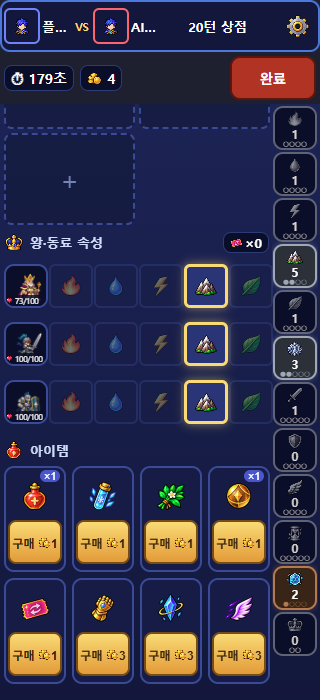
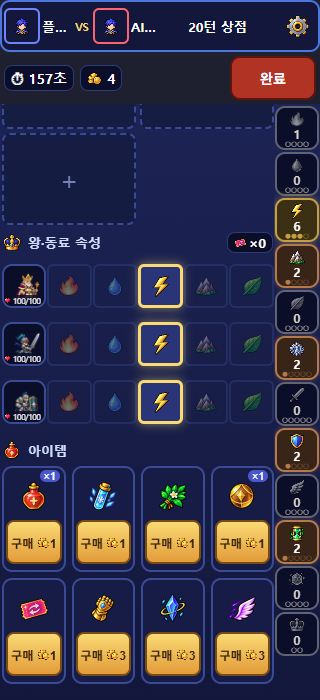
fix: restore unit status and shop touch targets (#316)

diff --git a/demo/test/regression/smoke_issue316.js b/demo/test/regression/smoke_issue316.js
@@ -94,6 +94,11 @@ function battle(seed){ const T=ecoPlay(seed);
   ok(rows.length===3&&rows.every(r=>/<small class="hp">[\s\S]*?<\/small>/.test(r.slice(0,r.indexOf("<button"))))&&rows.some(r=>r.includes("73/100"))&&rows.every(r=>/class="faceBtn"[^>]*onclick="unitHelpPiece\(/.test(r)),"⑥a 상점 속성 줄 = 왕 · 동료 그림 아래 실제 HP(공통 hpHtml) + 읽기 전용 말 정보 진입(속성 버튼 밖)");
   U.unitHelpPiece(king.id,null); let h=help();
   ok(/aria-label="HP 73\/100"/.test(h)&&/현재 방어막 12/.test(h),"⑥b 정보 창: 왕 HP 칸(빨간 하트) + 현재 방어막(실제 값)");
+  /* Saturn REVISE R1: 정보 창 줄(<ul class="uhRows"> 의 <li>)을 글자만 남겨 하나씩 본다 — 방어막 줄 뒤 사망 · 이동 불가 줄이 따로 살아 있어야 한다 */
+  const li=s=>(((s.match(/<ul class="uhRows">([\s\S]*?)<\/ul>/)||[])[1]||"").match(/<li>[\s\S]*?<\/li>/g)||[]).map(r=>r.replace(/<[^>]+>/g,"").trim());
+  ok(!li(h).some(r=>/사망|이동 불가/.test(r)),"⑥b2 살아 있고 이동 가능(immobile 0)하면 사망 · 이동 불가 줄 없음");
+  king.immobile=2; king.alive=false; U.unitHelpPiece(king.id,null); const r2=li(help()); king.immobile=0; king.alive=true;
+  ok(r2.includes("현재 방어막 12")&&r2.includes("사망")&&r2.includes("이동 불가 2턴"),"⑥b3 hp73/100 · 방어막12 · 이동 불가2 · 사망 = 세 줄 각각 [실측 "+JSON.stringify(r2)+"]");
   U.unitHelpPiece(ally.id,null); h=help();
   ok(/aria-label="HP \d+\/\d+"/.test(h)&&!/현재 방어막/.test(h),"⑥c 동료: HP 칸 · 방어막 0 이면 줄 없음");
   for(const t of ["bomb","trap"]){ const x=S.pieces.find(y=>y.owner===0&&y.type===t); U.unitHelpPiece(x.id,null); ok(!/HP|❤/.test(help()),"⑥d "+t+" 은 HP 없음(지어내지 않는다)"); }

diff --git a/demo/js/ui.js b/demo/js/ui.js
@@ -1544,7 +1544,8 @@ function unitHelpPiece(id,from){
   const tags=own&&unit&&m.eco&&tg?`<span class="tags" role="img" aria-label="${tg}" title="${tg}">${m.el?gi(m.el):""}${m.tr?gi(m.tr):""}</span>`:"";
   const rows=[!unit?TYPE_KO[x.type]:"",UNIT_NOTE[x.type]||"",!own&&m.g?`등급 ${m.g}`:"",tags?"":tx[0],tags?"":tx[1],
     unit&&!own?`${HEART_HTML} HP ${x.hp}/${x.maxHp}`:"", // #316 ⑥ 공개된 상대 = 서버가 실은 hp/maxHp 만(방어막 추정 없음) · 같은 빨간 하트
-    own&&unit&&x.shield>0?`${gi("guard")} 현재 방어막 ${x.shield}`:"", // #316 ⑥ 내 말의 현재 방어막 — 실제 값이 있을 때만(시작 방어막 % 칸과 별개)x.alive===false?"사망":"",x.immobile>0?`이동 불가 ${x.immobile}턴`:"",
+    own&&unit&&x.shield>0?`${gi("guard")} 현재 방어막 ${x.shield}`:"", // #316 ⑥ 내 말의 현재 방어막 — 실제 값이 있을 때만(시작 방어막 % 칸과 별개)
+    x.alive===false?"사망":"",x.immobile>0?`이동 불가 ${x.immobile}턴`:"",
     own&&x.healing?`🌿회복 자세(턴마다 +${Math.round(x.maxHp*BAL.healPostPct)})`:"",own&&x.cap?`포획 하수인(${ELEM_KO[x.cap.element]}) HP ${x.cap.hp}/${x.cap.maxHp}`:"",
     !own&&x.swapMark?"상점에서 교체됨":"",own?"":"상대 말 — 공개된 정보만 표시"];
   const L=own&&x.type==="minion"?LEGEND_ROSTER.find(l=>l.key===x.legend||(!!x.rosterId&&l.id===x.rosterId)):null, lg=L&&S.eco?synExtraView(v,S).legends.find(l=>l.legend===L.key):null;

diff --git a/docs/milestone/v0.4.14/issues/316/Mars/report.md b/docs/milestone/v0.4.14/issues/316/Mars/report.md
@@ -56,3 +56,28 @@
 - 새 검사가 수정 전 코드에서 실패하는지는 재실행하지 않은 정적 판단.
 - S02 · 준비 완료 대기 머리줄 통일은 [기획 필요 · 비차단] — 현행 유지.
 - 독립 Saturn QA · 필수 CI · CJ 플레이 QA 미실행.
+
+## 6. Saturn REVISE 수정 (2026-10-03 · 같은 미커밋 트리 · 기준 HEAD `ba916ba`)
+
+판정(자체 검증): **R1 · R2 수정 완료 · 미커밋**. 이 절은 Mars 자체 검증이며 Saturn 재검수 PASS가 아닙니다. 근거: `artifacts/.../issue-316-v0414-implementation-20261003/Saturn-REVISE.md`.
+실행: Claude `claude-opus-5-5` · high · `--dangerously-skip-permissions` · Ponytail full. Git · 서버/Core · Notion/GitHub 쓰기 0.
+
+| # | 원인 | 수정 |
+|---|---|---|
+| R1 | `ui.js` 정보 창 `rows`: 새 `// 현재 방어막` 주석 뒤에 기존 `x.alive===false?"사망"` · `x.immobile>0?"이동 불가 n턴"` 원소가 같은 줄로 붙어 주석이 됨 | 두 원소를 별도 실행 줄로 복원(문구 · 조건 종전 그대로) |
+| R2 | `game.css` S01 `.shopSheet .leadRow button{min-width:40px}` + 320에서 행 폭 249px(#screenBody 좌4 · 우52 · 스크롤 막대15) → 속성 버튼 40×44 · 행 안 넘침 5px. 턴 상점 320도 행 266px에 내용 269px(마지막 버튼이 시너지 열에 1px 겹침) | 공통 `.shopSheet .leadRow button{flex:1 0 44px; min-width:44px}`(중복된 턴 전용 줄 삭제). ≤360: 간격 1px, S01(`data-prep="roster"`)·턴 상점 모두 같은 거터(좌2 · 우46 · 스크롤 막대 숨김 · 시너지 열 오른쪽 끝 붙임). 새 렌더러 · 의존성 0, 선택/정보 진입 분리 · 5색 · 토글 · 규칙 무변경 |
+
+**검사(출력과 exit 같은 실행)**: `node demo/test/regression/smoke_issue316.js` → **37/0 exit0**(1회). 추가 단언 2개 = 실제 정보 창 `<ul class="uhRows">`의 `<li>` 글자: ⑥b2 살아 있음 · immobile0 → 사망/이동 불가 줄 없음, ⑥b3 hp73/100 · 방어막12 · immobile2 · alive:false → `현재 방어막 12` · `사망` · `이동 불가 2턴` 세 줄 각각. 결함 주입 1회(스크래치 사본에 옛 한 줄 복원): ⑥b3만 FAIL `실측 ["현재 방어막 12"]` 36/1 — 새 단언이 결함을 잡음(그 실행의 exit는 파이프로 가려져 별도 미수집, 스크립트는 실패 시 exitCode 1). CSS를 읽는 다른 회귀는 smoke_issue238 K22(선택 테두리)뿐이라 무관 → 재실행 안 함. 타입 영향 없음(줄 나눔만) → typecheck 재실행 안 함.
+
+**실측(Orca 내장 브라우저 · 본인 탭 · PD 8091 재사용 · 오프라인 PVE)** 속성 버튼 폭×높이 / 행 clientWidth=scrollWidth / 시너지 열 x / 문서 가로 넘침:
+
+| 화면 | 320 | 390 | PC |
+|---|---|---|---|
+| S01 | 44.6×44 ×5 · 272=272 · 열 274–320 · 0 | 51×44 · 319=319 · 0 | 59.4×44(1931) · 0 |
+| 턴 상점 | 44.6×44 ×5 · 272=272 · 열 274–320 · 0 | 54×44 · 334=334 · 0 | 62.4×44(1280) · 0 |
+
+그림 칸은 모든 폭 44×44 유지. 320 S01 · 턴 상점에서 화면 밖으로 나가는 요소 0(전체 스캔).
+
+**대표 캡처 교체**(`media/`, 배너 등 FX 큐가 빈 뒤 촬영 · 게임 동작 무변경): `info-king-shield-320.png`(20턴 상점 위 왕 정보 창 HP 73/100 · 현재 방어막 12), `battle-pc.png`(1280 · 포획 사유 `이미 가진 하수인` · 토글 펼침), 그리고 레이아웃이 바뀐 `s01-320.png` · `turnshop-lead-320.png`(왕·동료 속성 줄 44px). 캡처용 페이지 조작: 정적 서버라 계정 확인을 페이지 안에서만 `AUTH.state` 우회, 전투는 회귀 하네스와 같은 방법으로 말 배치. 본인 탭만 열고 닫음(PD Render 탭 · 8091/PID22708 · 8084/PID5012 무변경, 새 서버 0).
+
+**미해결 · 한계**: Saturn 재검수 · 새 HEAD CI · CJ 플레이 QA 미실행. 실제 안드로이드 기기 미확인(320/390 뷰포트 실측만).
